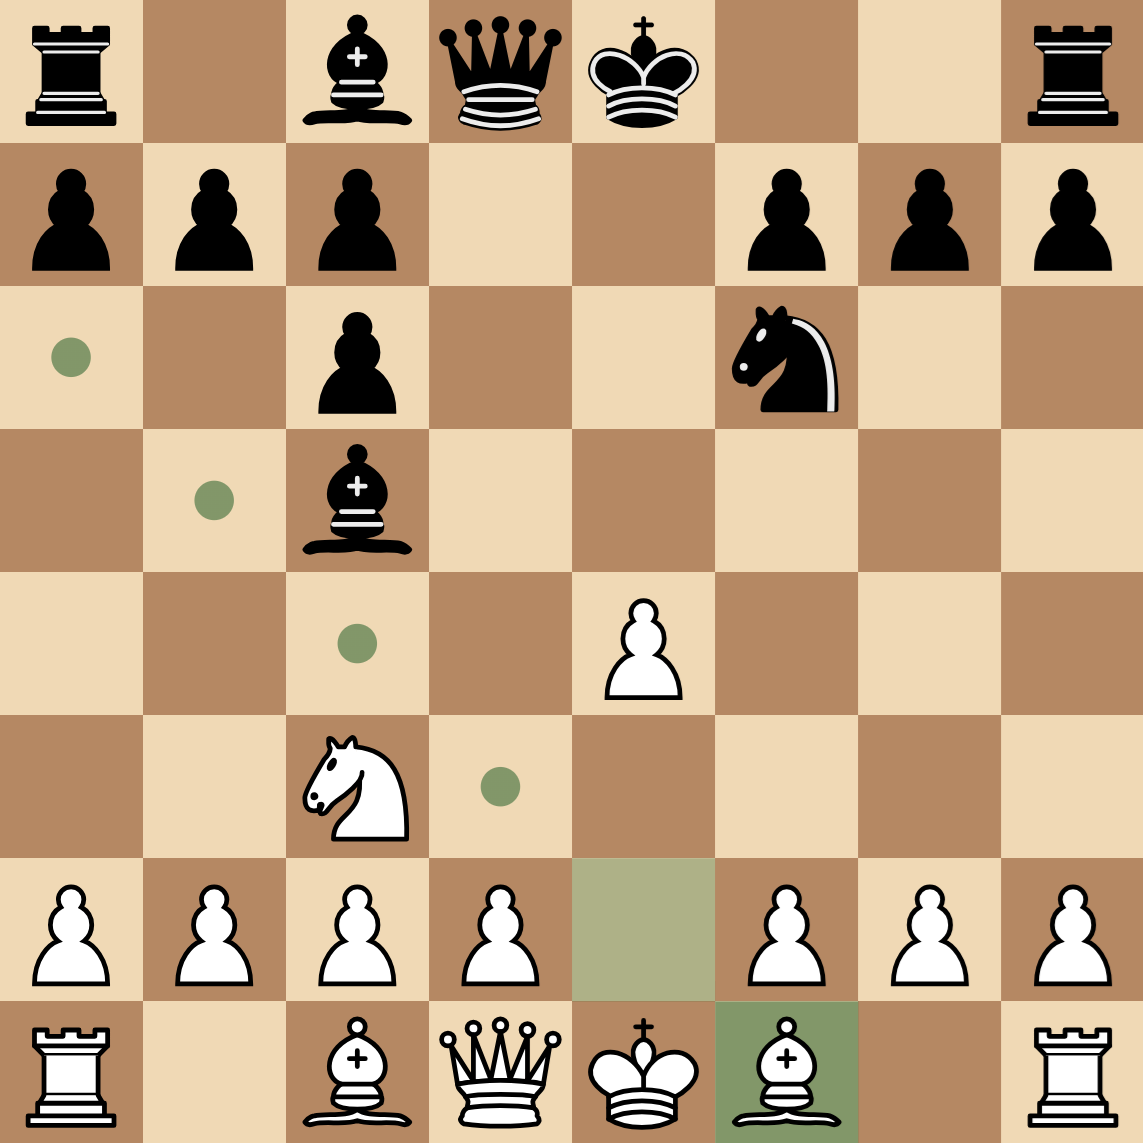
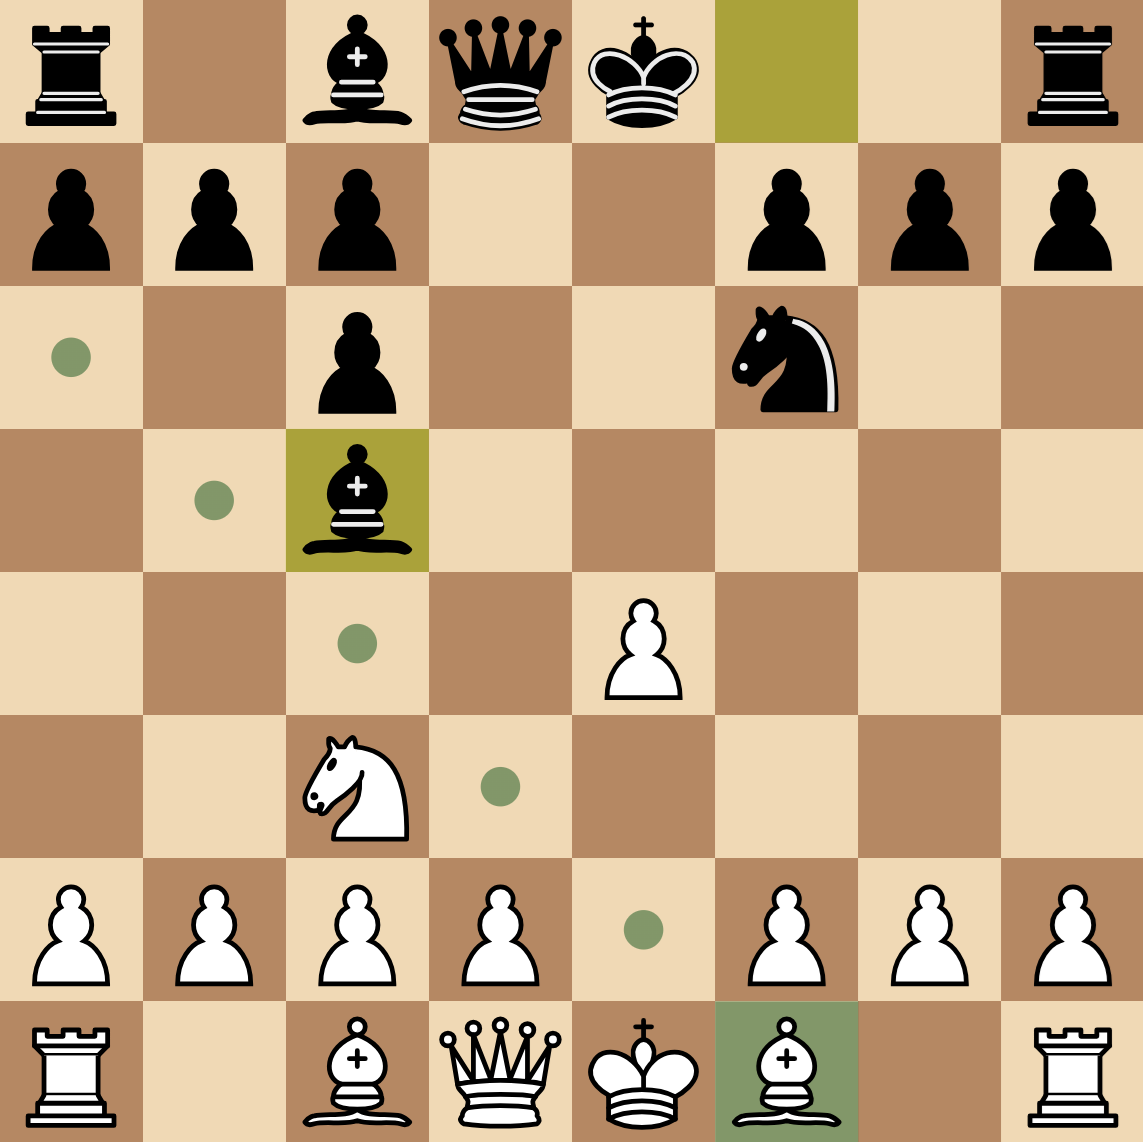
Add last move background

diff --git a/app/game/[id]/ChessBoard.tsx b/app/game/[id]/ChessBoard.tsx
@@ -79,14 +79,18 @@ function ChessBoardSquare(props: ChessBoardSquareProps) {
         })
     }), [square, active])
 
+    const lastMove = chess.history({verbose: true}).at(-1);
+    const isLastMove = lastMove?.from === square || lastMove?.to === square;
+
     // TODO: disable if no moves
+    // TODO: lastMove background overrides active dots
     return (
         <button
             ref={drop}
             onClick={() => active && move(square)}
             onMouseDown={(e) => active && e.stopPropagation()}
             disabled={over || !active && !props.children}
-            className={'w-24 h-24' + (square === activeSquare ? ' bg-[rgba(20,_85,_30,_0.5)]' : !active ? '' : canDrop && isOver ? ' bg-[rgba(20,_85,_30,_0.3)]' : props.children ? ' bg-[radial-gradient(transparent_0%,_transparent_79%,_rgba(20,_85,_0,_0.3)_80%)] hover:bg-none hover:bg-[rgba(20,_85,_30,_0.3)]' : ' bg-[radial-gradient(rgba(20,_85,_30,_0.5)_19%,_rgba(0,_0,_0,_0)_20%)] hover:bg-none hover:bg-[rgba(20,_85,_30,_0.3)]')}
+            className={'w-24 h-24' + (square === activeSquare ? ' bg-[rgba(20,_85,_30,_0.5)]' : isLastMove ? ' bg-last-move' : !active ? '' : canDrop && isOver ? ' bg-[rgba(20,_85,_30,_0.3)]' : props.children ? ' bg-[radial-gradient(transparent_0%,_transparent_79%,_rgba(20,_85,_0,_0.3)_80%)] hover:bg-none hover:bg-[rgba(20,_85,_30,_0.3)]' : ' bg-[radial-gradient(rgba(20,_85,_30,_0.5)_19%,_rgba(0,_0,_0,_0)_20%)] hover:bg-none hover:bg-[rgba(20,_85,_30,_0.3)]')}
         >
             {props.children}
         </button>
